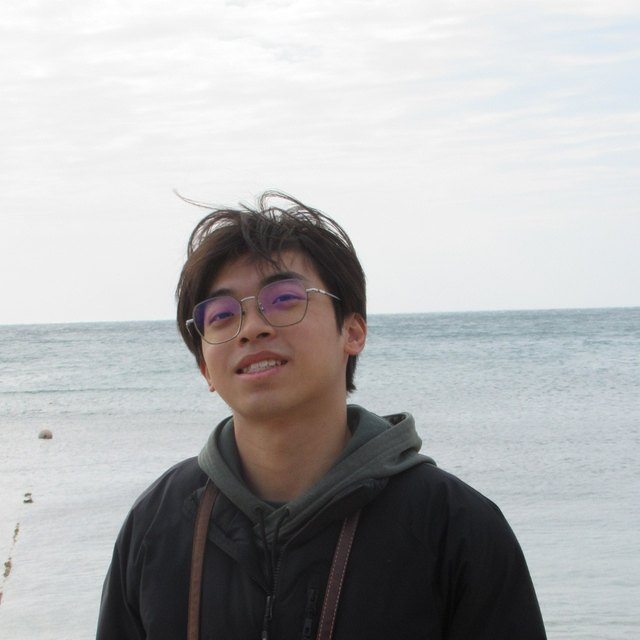
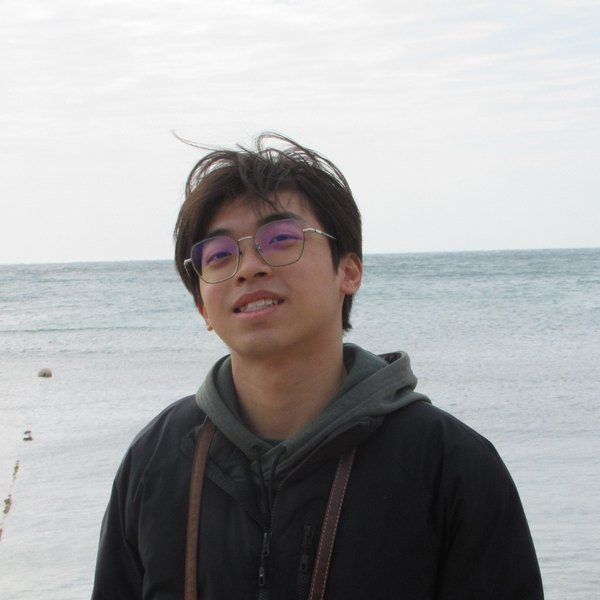
Update Leaf's photo, keep the members list position and switch the editor steps to the GitHub website

diff --git a/editor/index.html b/editor/index.html
@@ -500,10 +500,10 @@
         tab_gallery: "活動與相簿",
         welcomeTitle: "開始之前",
         welcomeSteps: [
-          "用 GitHub Desktop 把網站下載到電腦（Clone repository：nckugese/nckugese.github.io）。",
-          "按下方按鈕，選擇剛剛下載的網站資料夾（裡面有 index.html 和 data 資料夾的那一層）。",
+          "在 GitHub 網站（github.com/nckugese/nckugese.github.io）按 Code → Download ZIP，下載後解壓縮。",
+          "按下方按鈕，選擇解壓縮後的網站資料夾（直接包含 index.html、data 和 editor 的那一層）。",
           "在上方切換分頁編輯，改完按右上角「儲存」。",
-          "回到 GitHub Desktop，寫一句說明，按 Commit，再按 Push origin，網站約一兩分鐘後更新。",
+          "回到 GitHub 網站，按 Add file → Upload files，把 data 資料夾拖進去（有換照片的話，assets 資料夾也拖進去），按 Commit changes。網站約一兩分鐘後更新。",
         ],
         welcomePublic: "網站是公開的：電話、email、照片等個人資訊，請先確認本人同意公開。",
         open: "開啟網站資料夾",
@@ -584,7 +584,7 @@
         errId: "代號「{id}」格式不對或重複了。",
         errPaper: "有論文沒有標題。",
         errEvent: "活動「{name}」沒有名稱或沒有照片。",
-        savedHint: "已存檔。接著打開 GitHub Desktop：寫一句說明 → Commit → Push origin。",
+        savedHint: "已存檔。接著到 GitHub 網站：Add file → Upload files，把 data 資料夾（有換照片再加上 assets）拖進去，按 Commit changes。",
         imageFail: "這張照片讀不出來：{name}\n手機的 HEIC 照片請先轉成 JPG。",
         leave: "還有修改沒有儲存，確定要離開嗎？",
         countPeople: "{n} 人",
@@ -605,10 +605,10 @@
         tab_gallery: "Events & Gallery",
         welcomeTitle: "Before you start",
         welcomeSteps: [
-          "Download the website with GitHub Desktop (Clone repository: nckugese/nckugese.github.io).",
-          "Click the button below and choose that folder (the one containing index.html and the data folder).",
+          "On GitHub (github.com/nckugese/nckugese.github.io), click Code → Download ZIP, then extract the ZIP.",
+          "Click the button below and choose the extracted website folder (the one that directly contains index.html, data and editor).",
           "Edit with the tabs at the top, then click Save in the top-right corner.",
-          "Back in GitHub Desktop, write a short summary, click Commit, then Push origin. The site updates in a minute or two.",
+          "Back on GitHub, click Add file → Upload files, drag in the data folder (and the assets folder if you changed photos), then click Commit changes. The site updates in a minute or two.",
         ],
         welcomePublic: "The website is public. Only add phone numbers, email addresses or photos that the person agreed to publish.",
         open: "Open website folder",
@@ -689,7 +689,7 @@
         errId: "ID \"{id}\" is invalid or used twice.",
         errPaper: "A paper has no title.",
         errEvent: "Event \"{name}\" has no name or no photos.",
-        savedHint: "Saved. Now open GitHub Desktop: write a summary, Commit, then Push origin.",
+        savedHint: "Saved. Now on GitHub: Add file → Upload files, drag in the data folder (and assets if you changed photos), then click Commit changes.",
         imageFail: "This photo could not be read: {name}\nConvert HEIC photos from phones to JPG first.",
         leave: "You have unsaved changes. Leave anyway?",
         countPeople: "{n} people",

diff --git a/script.js b/script.js
@@ -311,8 +311,22 @@ const load = (url) => {
 const wait = (ms) => new Promise((resolve) => setTimeout(resolve, ms));
 let visit = 0;
 
+const spots = new Map();
+const spotKey = (url) => {
+  const u = new URL(url, location.href);
+  return pathOf(u.href) + u.search;
+};
+const isProfile = (url) => new URL(url, location.href).searchParams.has("id");
+let moving = false;
+
+if ("scrollRestoration" in history) history.scrollRestoration = "manual";
+window.addEventListener("scroll", () => !moving && spots.set(spotKey(location.href), window.scrollY), { passive: true });
+
 const show = async (url, push) => {
   const turn = ++visit;
+  if (push) spots.set(spotKey(location.href), window.scrollY);
+  const back = !push || (isProfile(location.href) && !isProfile(url) && pathOf(url) === pathOf(location.href)) ? spots.get(spotKey(url)) : undefined;
+  moving = true;
   setCurrent(url);
   try {
     main.classList.add("is-leaving");
@@ -331,16 +345,19 @@ const show = async (url, push) => {
     if (turn !== visit) return;
     pruneLenses();
     window.glass?.prune();
+    if (back !== undefined) window.scrollTo(0, back);
+    moving = false;
 
     void main.offsetWidth;
     main.classList.remove("is-leaving");
-    scrollToAnchor(url, "smooth");
+    if (back === undefined) scrollToAnchor(url, "smooth");
     const settle = () => {
       refreshLenses();
       window.glass?.refresh();
     };
     [120, 350, 750].forEach((ms) => setTimeout(settle, ms));
   } catch {
+    moving = false;
     location.href = url;
   }
 };

diff --git a/data/README.md b/data/README.md
@@ -14,20 +14,14 @@
 
 ## 用編輯器改（建議）
 
-成員、畢業生、論文、活動與相簿都可以用編輯器改，不用碰 JSON，也不用自己處理照片。編輯器有中文和英文介面，右上角切換。
+成員、畢業生、論文、活動與相簿都可以用編輯器改，不用碰 JSON，也不用自己處理照片。編輯器有中文和英文介面，右上角切換。只需要電腦版 Chrome 或 Edge，不用安裝任何程式。
 
-第一次使用：
-
-1. 安裝 GitHub Desktop（https://desktop.github.com），用實驗室帳號登入。
-2. 選 **Clone a repository**，選 `nckugese/nckugese.github.io`，下載到電腦。
-
-每次修改：
-
-1. 在 GitHub Desktop 按 **Fetch origin** / **Pull origin**，先拿到最新版本。
-2. 用電腦版 Chrome 或 Edge 打開 https://nckugese.github.io/editor/ ，或直接打開下載資料夾裡的 `editor/index.html`。
-3. 按「開啟網站資料夾」，選剛才下載的資料夾（裡面有 `index.html` 和 `data` 的那一層），瀏覽器詢問時按允許。
-4. 編輯，改完按右上角「儲存」（或 Ctrl+S）。
-5. 回到 GitHub Desktop，左下角寫一句說明，按 **Commit to main**，再按 **Push origin**。一到兩分鐘後網站更新。
+1. **下載**：到 https://github.com/nckugese/nckugese.github.io ，按綠色的 **Code** → **Download ZIP**，在下載資料夾對 ZIP 按右鍵 → **解壓縮全部**。每次修改前都重新下載一次，才不會蓋掉別人的修改。
+2. **打開編輯器**：用 Chrome 或 Edge 打開 https://nckugese.github.io/editor/ ，或在解壓縮的資料夾裡打開 `editor/index.html`。
+3. **選資料夾**：按「開啟網站資料夾」，選直接包含 `index.html`、`data`、`editor` 的那一層（Windows 解壓縮常會多包一層同名資料夾，要選裡面那層），瀏覽器詢問時按允許。
+4. **編輯並儲存**：改完按右上角「儲存」（或 Ctrl+S），檔案會寫回電腦上的資料夾。
+5. **上傳**：回到 GitHub 網頁（需登入有權限的帳號），按 **Add file** → **Upload files**，從檔案總管把整個 `data` 資料夾拖進去；有新增或更換照片的話，`assets` 資料夾也拖進去。寫一句說明，按 **Commit changes**。GitHub 只會記錄內容有變的檔案，所以整個資料夾拖進去沒關係。
+6. **確認**：一到兩分鐘後打開網站，按 Ctrl+F5 重新整理。
 
 編輯器會自動處理的事：
 
@@ -36,7 +30,7 @@
 - 「畢業，移到畢業生」一鍵把成員搬到 `alumni.json`，填上學位和年份。
 - 存檔前檢查：代號重複、沒有姓名、論文沒有標題、活動沒有照片，都會先提示。
 
-編輯器不會刪除照片檔。從頁面上移除的照片，檔案還留在 `assets` 裡，需要的話在 GitHub Desktop 裡手動刪掉。
+編輯器不會刪除照片檔。從頁面上移除的照片，檔案還留在 `assets` 裡，需要的話在 GitHub 網頁上刪掉。
 
 研究頁（`research.json`）目前不在編輯器裡，照下面的方式直接改檔案。
 
